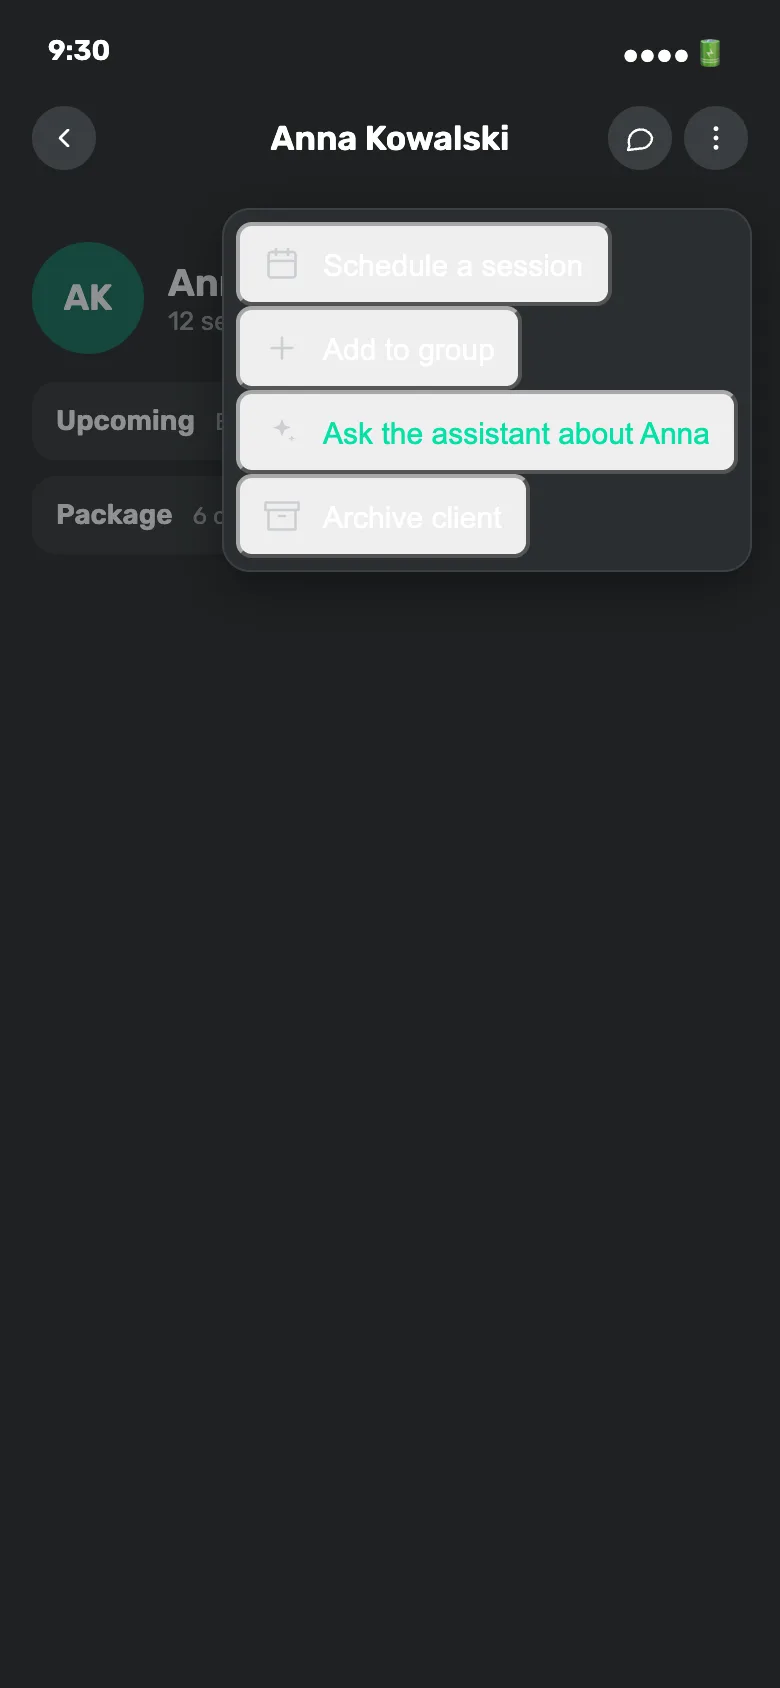
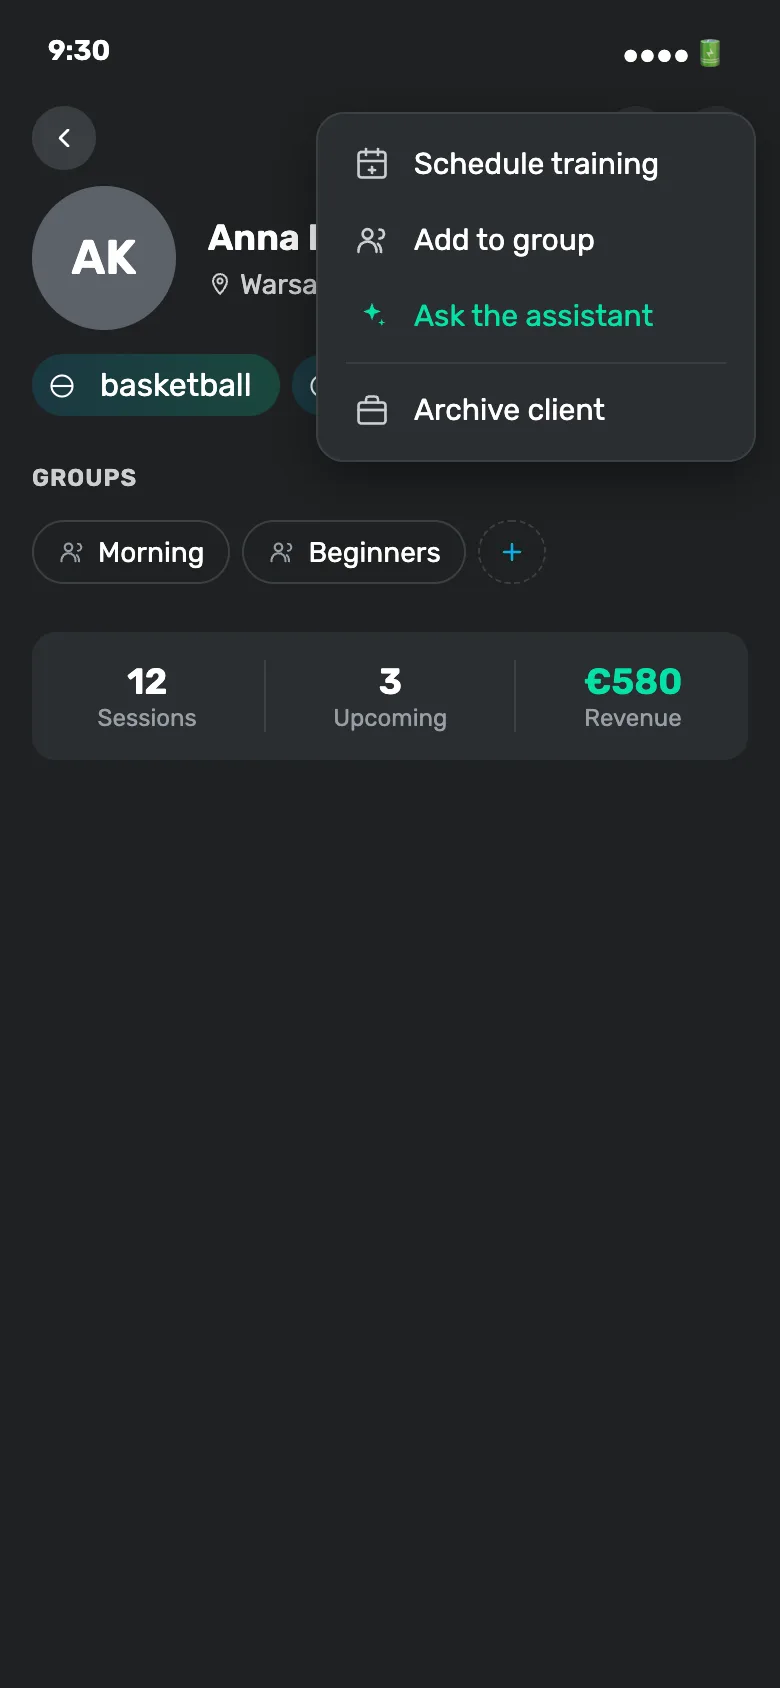
Assistant: the client-card screen was a broken sketch, rebuild it from the real card
Two defects behind what it looked like:

The menu items were <button class="fit-context-menu-item">, but the canonical
markup is <div>. Buttons carry the browser's own background, so every item
rendered as a white slab with white text on it — unreadable, and nothing like
the menu it was meant to show.

The screen behind the menu was a hand-drawn stand-in, which left most of it
empty. It is now the real client card — header, identity, group pills and the
stats strip cloned from coach/clients.html#s-client-detail. The proposal is one
row in the ... menu that already exists there, and now it reads as exactly that.

Cloning half a CSS block does not work either: .cd-grp's size lives in a
multi-line rule, so taking only the lines that start with .cd-grp gave pills
with 60px icons. The whole block came over.

diff --git a/prototypes/flows/shared/assistant-entry.html b/prototypes/flows/shared/assistant-entry.html
@@ -294,6 +294,34 @@
   .ai-pin-tag { font-size: 9.5px; font-weight: 600; letter-spacing: .3px; text-transform: uppercase;
                 color: var(--fit-teal-500); border: 1px solid rgba(5,224,166,0.4); border-radius: 4px; padding: 1px 5px; }
 
+  /* group pills, cloned whole from coach/clients.html — the multi-line .cd-grp
+     rule sets the pill size, so half the block is not enough */
+  .cd-grp-row { display: flex; flex-wrap: wrap; gap: 6px; padding: 0 16px 24px; align-items: center; }
+  .cd-grp-label { width: 100%; font-size: 12px; font-weight: 600; text-transform: uppercase; letter-spacing: 0.5px; color: var(--fit-text-secondary); margin-bottom: 8px; }
+  .cd-grp {
+    display: inline-flex; align-items: center; gap: 6px;
+    height: 32px; padding: 0 12px; border-radius: 99px; cursor: pointer;
+    border: 1px solid var(--fit-divider); background: transparent;
+    font-family: var(--fit-font); font-size: 14px; color: var(--fit-text-primary);
+  }
+  .fit-light .cd-grp { background: var(--fit-white); border-color: transparent; box-shadow: 0 0 8px rgba(0,0,0,0.06); }
+  .cd-grp svg { width: 14px; height: 14px; color: var(--fit-text-tertiary); flex-shrink: 0; }
+  .cd-grp--add { color: var(--fit-brand-primary); border-style: dashed; }
+  .cd-grp--add svg { color: var(--fit-brand-primary); }
+  /* Names truncate rather than push the row into a second line */
+  .cd-grp-name { max-width: 108px; overflow: hidden; text-overflow: ellipsis; white-space: nowrap; }
+  /* Overflow counter — opens the same membership screen */
+  .cd-grp--more { color: var(--fit-text-secondary); padding: 0 10px; }
+  /* With pills present the add affordance is icon-only (constant width);
+     with none it keeps its label, because then nothing else explains the section */
+  #cd-groups.has-groups .cd-grp--add span { display: none; }
+  #cd-groups.has-groups .cd-grp--add { padding: 0 9px; }
+  #cd-groups.no-groups .cd-grp:not(.cd-grp--add) { display: none; }
+  #cd-groups.no-groups .cd-grp--more { display: none; }
+  /* invisible hit-area expansion → 44px effective (HIG) */
+  .cd-grp { position: relative; }
+  .cd-grp::before { content: ""; position: absolute; top: -6px; right: -4px; bottom: -6px; left: -4px; }
+
   /* the dimmed screen a sheet sits on */
   .ai-behind { padding: 14px 16px; opacity: .5; pointer-events: none; }
   .ai-slot { display: flex; gap: 10px; align-items: center; padding: 11px 12px; margin-bottom: 8px;
@@ -552,34 +580,100 @@
 </div>
 
 <!-- ==================== SCREEN: ENTRY FROM A CLIENT CARD (coach) ==================== -->
+<!-- The real client card (coach/clients.html#s-client-detail) — header, identity,
+     group pills and stats cloned verbatim. The only proposal here is one row in
+     the ... menu that already exists on that screen. -->
 <div class="fit-phone fit-dark vr-coach" id="s-ai-entry-client" data-status="proposal">
   <div class="fit-phone-header">
     <div class="fit-status-bar"><span>9:30</span><span>&#9679;&#9679;&#9679;&#9679; &#128267;</span></div>
-    <div class="fit-header" style="justify-content:space-between;">
-      <button class="fit-header-back" style="position:static;"><svg viewBox="0 0 24 24" fill="none" stroke="currentColor" stroke-width="2" stroke-linecap="round" stroke-linejoin="round"><path d="M15 18l-6-6 6-6"/></svg></button>
-      <span class="fit-header-title">Anna Kowalski</span>
-      <div style="display:flex;gap:6px;">
-        <button class="fit-icon-btn" aria-label="Message"><svg viewBox="0 0 24 24" fill="none" stroke="currentColor" stroke-width="1.8" stroke-linecap="round" stroke-linejoin="round"><path d="M21 11.5a8.4 8.4 0 01-9 8.4L3 21l1.1-3.3A8.4 8.4 0 1121 11.5z"/></svg></button>
-        <button class="fit-icon-btn" aria-label="More"><svg viewBox="0 0 24 24" fill="currentColor"><circle cx="12" cy="5" r="1.8"/><circle cx="12" cy="12" r="1.8"/><circle cx="12" cy="19" r="1.8"/></svg></button>
+    <div style="display:flex;justify-content:space-between;align-items:center;padding:8px 16px;">
+      <button class="fit-header-back"><svg viewBox="0 0 24 24" fill="none" stroke="currentColor" stroke-width="2" stroke-linecap="round" stroke-linejoin="round"><path d="M15 18l-6-6 6-6"/></svg></button>
+      <div style="display:flex;gap:8px;">
+        <button style="width:32px;height:32px;border-radius:50%;background:var(--fit-surface-high);border:none;display:flex;align-items:center;justify-content:center;cursor:pointer;color:var(--fit-text-primary);">
+          <svg width="16" height="16" viewBox="0 0 24 24" fill="none" stroke="currentColor" stroke-width="2" stroke-linecap="round" stroke-linejoin="round"><path d="M21 15a2 2 0 01-2 2H7l-4 4V5a2 2 0 012-2h14a2 2 0 012 2z"/></svg>
+        </button>
+        <button style="width:32px;height:32px;border-radius:50%;background:var(--fit-surface-high);border:none;display:flex;align-items:center;justify-content:center;cursor:pointer;color:var(--fit-text-primary);" aria-label="Client options">
+          <svg width="16" height="16" viewBox="0 0 24 24" fill="none" stroke="currentColor" stroke-width="2" stroke-linecap="round" stroke-linejoin="round"><circle cx="12" cy="12" r="1"/><circle cx="19" cy="12" r="1"/><circle cx="5" cy="12" r="1"/></svg>
+        </button>
       </div>
     </div>
   </div>
-  <div class="fit-phone-content" style="padding:0;">
-    <div class="ai-behind">
-      <div style="display:flex;align-items:center;gap:12px;padding:6px 0 14px;">
-        <div class="dm-av" style="width:56px;height:56px;">AK</div>
-        <div><div style="font-size:19px;font-weight:600;color:var(--fit-text-primary);">Anna Kowalski</div><div style="font-size:13px;color:var(--fit-text-tertiary);">12 sessions &middot; &euro;580</div></div>
+  <div class="fit-phone-content">
+
+<!-- Avatar + name + info (row layout like Coach Profile v2) -->
+    <div style="display:flex;align-items:center;gap:16px;padding:0 16px 12px;">
+      <div style="width:72px;height:72px;border-radius:50%;background:var(--fit-gray-600);display:flex;align-items:center;justify-content:center;font-size:24px;font-weight:600;color:var(--fit-white);flex-shrink:0;">AK</div>
+      <div style="flex:1;">
+        <div style="display:flex;align-items:center;gap:8px;margin-bottom:4px;">
+          <span class="fit-identity-name">Anna Kowalski</span>
+          <span id="cd-name-pill" style="display:none;font-size:10px;font-weight:500;color:var(--fit-teal-500);background:rgba(5,224,166,0.08);border:1px solid rgba(5,224,166,0.3);padding:2px 6px;border-radius:4px;text-transform:uppercase;letter-spacing:0.3px;">CRM</span>
+        </div>
+        <div style="display:flex;align-items:center;gap:4px;font-size:14px;color:var(--fit-text-secondary);">
+          <svg width="12" height="12" viewBox="0 0 24 24" fill="none" stroke="currentColor" stroke-width="2" stroke-linecap="round" stroke-linejoin="round"><path d="M12 2C8.13 2 5 5.13 5 9c0 5.25 7 13 7 13s7-7.75 7-13c0-3.87-3.13-7-7-7z"/><circle cx="12" cy="9" r="2.5"/></svg>
+          Warsaw, Poland
+        </div>
       </div>
-      <div class="ai-slot"><b>Upcoming</b><span>Basketball &middot; Apr 21, 08:00</span></div>
-      <div class="ai-slot"><b>Package</b><span>6 of 20 used &middot; 14 left</span></div>
+    </div>
+    <!-- Sport chips -->
+    <div style="display:flex;gap:6px;padding:0 16px 24px;">
+      <span class="fit-sport-chip" style="margin:0;"><svg class="i-sm" viewBox="0 0 24 24" fill="none" stroke="currentColor" stroke-width="1.8"><circle cx="12" cy="12" r="9"/><path d="M3 12h18"/></svg>basketball</span>
+      <span class="fit-sport-chip" style="margin:0;"><svg class="i-sm" viewBox="0 0 24 24" fill="none" stroke="currentColor" stroke-width="1.8"><circle cx="12" cy="12" r="9"/><path d="M12 7v5l3 3"/></svg>fitness</span>
     </div>
 
-    <!-- Header right is already 2 actions, so the assistant belongs in ⋯ -->
-    <div class="fit-context-menu visible" style="position:absolute;top:104px;right:14px;">
-      <button class="fit-context-menu-item"><svg viewBox="0 0 24 24" fill="none" stroke="currentColor" stroke-width="1.8" stroke-linecap="round" stroke-linejoin="round"><rect x="3" y="4" width="18" height="17" rx="2"/><path d="M16 2v4M8 2v4M3 10h18"/></svg>Schedule a session</button>
-      <button class="fit-context-menu-item"><svg viewBox="0 0 24 24" fill="none" stroke="currentColor" stroke-width="1.8" stroke-linecap="round" stroke-linejoin="round"><path d="M12 5v14M5 12h14"/></svg>Add to group</button>
-      <button class="fit-context-menu-item" style="color:var(--fit-teal-500);" onclick="go('s-ai-context',null)"><svg viewBox="0 0 24 24" fill="currentColor"><path d="M12 3l1.6 4.4L18 9l-4.4 1.6L12 15l-1.6-4.4L6 9l4.4-1.6z" /><path d="M18.5 14l.6 1.7 1.7.6-1.7.6-.6 1.7-.6-1.7-1.7-.6 1.7-.6z"/></svg>Ask the assistant about Anna</button>
-      <button class="fit-context-menu-item"><svg viewBox="0 0 24 24" fill="none" stroke="currentColor" stroke-width="1.8" stroke-linecap="round" stroke-linejoin="round"><path d="M21 8v13H3V8M1 3h22v5H1zM10 12h4"/></svg>Archive client</button>
+    <!-- Groups this client is in — read from the group module, editable from here -->
+    <div class="cd-grp-row has-groups" id="cd-groups">
+      <span class="cd-grp-label">Groups</span>
+      <span class="cd-grp" data-a11y-id="coach.client.group" onclick="window.location.href='./client-groups.html#s-group-detail'">
+        <svg viewBox="0 0 24 24" fill="none" stroke="currentColor" stroke-width="1.8" stroke-linecap="round" stroke-linejoin="round"><circle cx="9" cy="8" r="3.2"/><path d="M3 20v-1a6 6 0 0112 0v1"/><path d="M17 11a3 3 0 100-6M18 20v-1a6 6 0 00-2-4.4"/></svg>
+        <span class="cd-grp-name">Morning</span>
+      </span>
+      <span class="cd-grp" onclick="window.location.href='./client-groups.html#s-group-detail'">
+        <svg viewBox="0 0 24 24" fill="none" stroke="currentColor" stroke-width="1.8" stroke-linecap="round" stroke-linejoin="round"><circle cx="9" cy="8" r="3.2"/><path d="M3 20v-1a6 6 0 0112 0v1"/><path d="M17 11a3 3 0 100-6M18 20v-1a6 6 0 00-2-4.4"/></svg>
+        <span class="cd-grp-name">Beginners</span>
+      </span>
+      <span class="cd-grp cd-grp--more" id="cd-grp-more" style="display:none;" onclick="window.location.href='./client-groups.html#s-add-to-group'">+4</span>
+      <span class="cd-grp cd-grp--add" data-a11y-id="coach.client.add-to-group" onclick="window.location.href='./client-groups.html#s-add-to-group'">
+        <svg viewBox="0 0 24 24" fill="none" stroke="currentColor" stroke-width="2" stroke-linecap="round" stroke-linejoin="round"><path d="M12 5v14M5 12h14"/></svg>
+        <span>Add to group</span>
+      </span>
+    </div>
+
+    
+<!-- Stats card -->
+    <div style="display:flex;justify-content:space-around;padding:14px 16px;margin:0 16px 24px;border-radius:12px;background:var(--fit-surface-high);">
+      <div style="text-align:center;">
+        <div style="font-size:18px;font-weight:600;color:var(--fit-text-primary);">12</div>
+        <div style="font-size:12px;color:var(--fit-text-tertiary);">Sessions</div>
+      </div>
+      <div style="width:1px;background:var(--fit-divider);"></div>
+      <div style="text-align:center;">
+        <div style="font-size:18px;font-weight:600;color:var(--fit-text-primary);">3</div>
+        <div style="font-size:12px;color:var(--fit-text-tertiary);">Upcoming</div>
+      </div>
+      <div style="width:1px;background:var(--fit-divider);"></div>
+      <div style="text-align:center;">
+        <div style="font-size:18px;font-weight:600;color:var(--fit-teal-500);" id="cd-stat-revenue">&euro;580</div>
+        <div style="font-size:12px;color:var(--fit-text-tertiary);">Revenue</div>
+
+    <div class="fit-context-menu visible" style="top:56px;right:12px;">
+      <div class="fit-context-menu-item">
+        <svg viewBox="0 0 24 24" fill="none" stroke="currentColor" stroke-width="1.8" stroke-linecap="round" stroke-linejoin="round"><rect x="3" y="4" width="18" height="17" rx="2"/><path d="M16 2v4M8 2v4M3 10h18"/><path d="M12 14v4M10 16h4"/></svg>
+        Schedule training
+      </div>
+      <div class="fit-context-menu-item">
+        <svg viewBox="0 0 24 24" fill="none" stroke="currentColor" stroke-width="1.8" stroke-linecap="round" stroke-linejoin="round"><circle cx="9" cy="8" r="3.2"/><path d="M3 20v-1a6 6 0 0112 0v1"/><path d="M17 11a3 3 0 100-6M18 20v-1a6 6 0 00-2-4.4"/></svg>
+        Add to group
+      </div>
+      <!-- THE PROPOSAL: one row, in the menu that is already there -->
+      <div class="fit-context-menu-item" style="color:var(--fit-teal-500);" onclick="go('s-ai-context',null)">
+        <svg viewBox="0 0 24 24" fill="currentColor" style="color:var(--fit-teal-500);"><path d="M12 3l1.6 4.4L18 9l-4.4 1.6L12 15l-1.6-4.4L6 9l4.4-1.6z"/><path d="M18.5 14l.6 1.7 1.7.6-1.7.6-.6 1.7-.6-1.7-1.7-.6 1.7-.6z"/></svg>
+        Ask the assistant
+      </div>
+      <div class="fit-context-menu-divider"></div>
+      <div class="fit-context-menu-item">
+        <svg viewBox="0 0 24 24" fill="none" stroke="currentColor" stroke-width="1.8" stroke-linecap="round" stroke-linejoin="round"><rect x="3" y="7" width="18" height="14" rx="2"/><path d="M8 7V5a2 2 0 012-2h4a2 2 0 012 2v2"/><path d="M3 12h18"/></svg>
+        Archive client
+      </div>
     </div>
   </div>
 </div>
@@ -611,8 +705,9 @@
   </div>
 
   <div class="ann" id="ann-s-ai-entry-client"><span class="ann-role coach">Coach</span><h3>Entering from a client card</h3>
-    <p>The other kind of context: a <em>person</em> rather than an event. &ldquo;How is Anna doing?&rdquo;, &ldquo;when does her package run out?&rdquo;, &ldquo;draft a message about the missed session&rdquo;.</p>
-    <p>It sits in <strong>&hellip;</strong>, not in the header: the header already carries Message and &hellip;, and our rule is at most two actions up there. That also keeps the assistant out of the way for coaches who never use it.</p>
+    <p>The other kind of context: a <em>person</em> rather than an event &mdash; &ldquo;how is Anna doing?&rdquo;, &ldquo;when does her package run out?&rdquo;, &ldquo;draft a note about the session she missed&rdquo;.</p>
+    <p>The card here is <strong>the real one</strong> (<code>coach/clients.html#s-client-detail</code>), cloned with its header, identity, group pills and stats. The proposal is a single row in the <strong>&hellip;</strong> menu that is already on that screen &mdash; nothing else changes.</p>
+    <p>It goes in the menu rather than the header because the header already carries Message and &hellip;, and our rule caps it at two. That also keeps the assistant out of the way for coaches who never touch it.</p>
   </div>
 </div>
 

diff --git a/prototypes/board/board-data.js b/prototypes/board/board-data.js
@@ -1514,7 +1514,7 @@ window.FIT_BOARD = {
       "screens": [
         {
           "id": "s-chats",
-          "hash": "d589c2d745cc",
+          "hash": "31ee181c8215",
           "title": "Chats (assistant pinned)",
           "inApp": "Chats",
           "status": "proposal",
@@ -1537,7 +1537,7 @@ window.FIT_BOARD = {
         },
         {
           "id": "s-request-drawer",
-          "hash": "5ac2652e25ea",
+          "hash": "80efba771b30",
           "title": "Drawer · request (4 actions)",
           "inApp": "April 10",
           "status": "proposal",
@@ -1562,7 +1562,7 @@ window.FIT_BOARD = {
         },
         {
           "id": "s-ai-context",
-          "hash": "15165e113417",
+          "hash": "6920603b69b9",
           "title": "Assistant acted",
           "inApp": "",
           "status": "proposal",
@@ -1587,14 +1587,17 @@ window.FIT_BOARD = {
         },
         {
           "id": "s-ai-entry-client",
-          "hash": "3d029c8bbf15",
+          "hash": "201d8b6b81f5",
           "title": "From a client card",
-          "inApp": "Anna Kowalski",
+          "inApp": "",
           "status": "proposal",
           "theme": "dark",
           "entry": false,
-          "note": "The other kind of context: a person rather than an event. “How is Anna doing?”, “when does her package run out?”, “draft a message about the missed session”.",
-          "external": [],
+          "note": "The other kind of context: a person rather than an event — “how is Anna doing?”, “when does her package run out?”, “draft a note about the session she missed”.",
+          "external": [
+            "./client-groups.html#s-group-detail",
+            "./client-groups.html#s-add-to-group"
+          ],
           "shots": [
             {
               "file": "shared-assistant-entry__s-ai-entry-client.webp",
